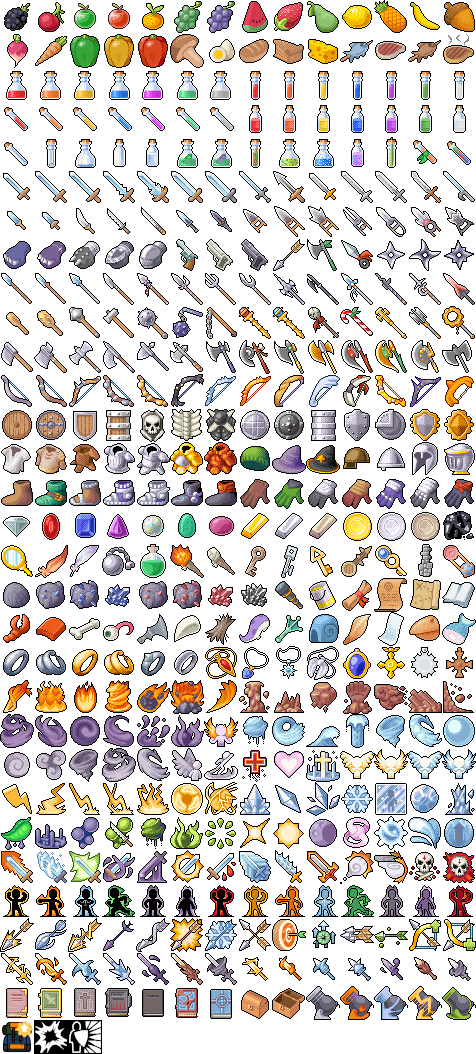
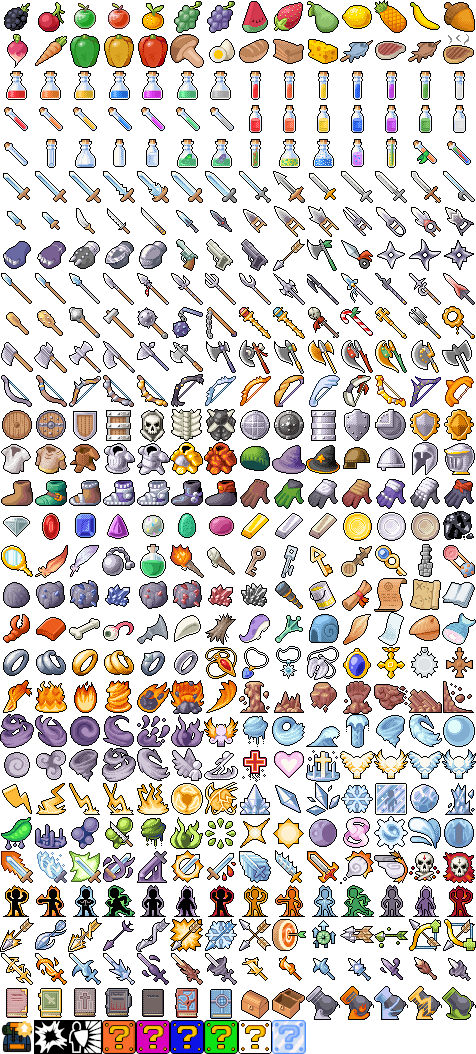
ristrutturazione pagina Wizard e aggiunge nuove risorse grafiche

Changed region(s): [[0.2059, 0.9412, 0.6471, 1.0]]

diff --git a/Gui/ShopTab.cpp b/Gui/ShopTab.cpp
@@ -4,8 +4,6 @@
 
 #include "ShopTab.h"
 
-#include <utility>
-
 void ShopTab::initShopSlots() {
     //init shop slots
     if(!shopSlots.empty()){
@@ -17,13 +15,13 @@ void ShopTab::initShopSlots() {
     float modifierY = 120.f;
     float yMultiplier = 0;
     int count = 0;
-    for(const auto& i : lootGenerator->getConsumablesList()){
+    for(const auto& i : lootGenerator->getShopList()){
         if((count % max_per_row) == 0 && count != 0){
             yMultiplier ++;
         }
         shopSlots.push_back(std::make_shared<gui::ShopSlot>(80.f, 80.f,
                 container.getPosition().x + 35.f + (modifierX * (float)(count % max_per_row)),
-                container.getPosition().y + 80.f + (modifierY * yMultiplier), font, i.second));
+                container.getPosition().y + 80.f + (modifierY * yMultiplier), font, i.second, i.first));
         count++;
     }
 }
@@ -76,36 +74,94 @@ ShopTab::ShopTab(const std::shared_ptr<sf::RenderWindow>& window, sf::Font* font
 ShopTab::~ShopTab() = default;
 
 //functions
-void ShopTab::buyItem(const std::string& item_name, const unsigned price) {
+void ShopTab::buyItem(const std::string& item_name, const std::string& key, item_usage_type item_usage, const unsigned price) {
     if(player->getGold() >= price){
-        std::shared_ptr<Item> it = std::make_shared<Item>(lootGenerator->getConsumablesList().at(item_name));
-        if(it->getName() == "UpgradeInventory"){
-            if(player->getGold() < it->getValue()){
-                gState->getPopUpTextComponent()->addPopUpTextCenter(DEFAULT_RARITY,
-                                                                    "Insufficient Gold", "", "");
-            } else if(!player->getInventory()->isExpandable()){
-                gState->getPopUpTextComponent()->addPopUpTextCenter(DEFAULT_RARITY,
-                        "Your inventory cannot be expanded anymore(Limit:" +
-                        to_string(Inventory::MAX_SPACE), "", ")");
+        if(item_name == "Upgrade Inventory"){
+            if(!player->getInventory()->isExpandable()){
+                gState->getPopUpTextComponent()->addPopUpTextCenter(
+                        DEFAULT_TAG,
+                        "Your inventory cannot be expanded anymore(Limit:" +to_string(Inventory::MAX_SPACE),
+                        "", ")");
             } else{
                 player->minusGold(price);
                 player->getInventory()->expandInventorySpace(5);
                 gState->updateTabsGoldLbl();
                 gState->updateTabsInvSpaceLbl();
-                gState->getPopUpTextComponent()->addPopUpTextCenter(DEFAULT_RARITY,
+                gState->getPopUpTextComponent()->addPopUpTextCenter(
+                        DEFAULT_TAG,
                         to_string(player->getInventory()->getCurrentMaxSpace()-5)+"->", "Inventory capacity +5 (",
-                                                                    to_string(player->getInventory()->getCurrentMaxSpace()));
+                        to_string(player->getInventory()->getCurrentMaxSpace()));
             }
 
-        }else{
-            player->minusGold(price);
-            it->setId(rsHandler->generateId());
-            gState->addItem(it);
-            gState->updateTabsGoldLbl();
+        } else if(!player->getInventory()->isFull() ||
+                (player->getInventory()->hasItemByName(item_name) && item_usage == CONSUMABLE_USAGE)){
+            std::shared_ptr<Item> it = std::make_shared<Item>(lootGenerator->getShopList().at(key));
+            if(it->getName() == "Mystery Box"){
+                std::shared_ptr<Item> new_item = gState->getLootGenerator()->generateTierEquipment(
+                        DEFAULT_RARITY, true);
+                player->minusGold(price);
+                gState->updateTabsGoldLbl();
+                gState->addItem(new_item);
+                gState->updateTabsInvSpaceLbl();
+                gState->getPopUpTextComponent()->addPopUpTextCenter(
+                        DEFAULT_TAG, new_item->getName(), "You got [", "]");
+            } else if(it->getName() == "Mystery Box(Uncommon)"){
+                std::shared_ptr<Item> new_item = gState->getLootGenerator()->generateTierEquipment(
+                        UNCOMMON, false);
+                player->minusGold(price);
+                gState->updateTabsGoldLbl();
+                gState->addItem(new_item);
+                gState->updateTabsInvSpaceLbl();
+                gState->getPopUpTextComponent()->addPopUpTextCenter(
+                        DEFAULT_TAG, new_item->getName(), "You got [", "]");
+            } else if(it->getName() == "Mystery Box(Common)"){
+                std::shared_ptr<Item> new_item = gState->getLootGenerator()->generateTierEquipment(
+                        COMMON, false);
+                player->minusGold(price);
+                gState->updateTabsGoldLbl();
+                gState->addItem(new_item);
+                gState->updateTabsInvSpaceLbl();
+                gState->getPopUpTextComponent()->addPopUpTextCenter(
+                        DEFAULT_TAG, new_item->getName(), "You got [", "]");
+            } else if(it->getName() == "Mystery Box(Rare)"){
+                std::shared_ptr<Item> new_item = gState->getLootGenerator()->generateTierEquipment(
+                        RARE, false);
+                player->minusGold(price);
+                gState->updateTabsGoldLbl();
+                gState->addItem(new_item);
+                gState->updateTabsInvSpaceLbl();
+                gState->getPopUpTextComponent()->addPopUpTextCenter(
+                        DEFAULT_TAG, new_item->getName(), "You got [", "]");
+            } else if(it->getName() == "Mystery Box(Epic)"){
+                std::shared_ptr<Item> new_item = gState->getLootGenerator()->generateTierEquipment(
+                        EPIC, false);
+                player->minusGold(price);
+                gState->updateTabsGoldLbl();
+                gState->addItem(new_item);
+                gState->updateTabsInvSpaceLbl();
+                gState->getPopUpTextComponent()->addPopUpTextCenter(
+                        DEFAULT_TAG, new_item->getName(), "You got [", "]");
+            } else if(it->getName() == "Mystery Box(Legendary)"){
+                std::shared_ptr<Item> new_item = gState->getLootGenerator()->generateTierEquipment(
+                        LEGENDARY, false);
+                player->minusGold(price);
+                gState->updateTabsGoldLbl();
+                gState->addItem(new_item);
+                gState->updateTabsInvSpaceLbl();
+                gState->getPopUpTextComponent()->addPopUpTextCenter(
+                        DEFAULT_TAG, new_item->getName(), "You got [", "]");
+            } else{
+                player->minusGold(price);
+                it->setId(rsHandler->generateId());
+                gState->addItem(it);
+                gState->updateTabsGoldLbl();
+                gState->getPopUpTextComponent()->addPopUpTextCenter(DEFAULT_RARITY,"1 "+item_name,
+                                                                    "You bought","for "+to_string(price)+" gold");
+            }
+        } else{
             gState->getPopUpTextComponent()->addPopUpTextCenter(DEFAULT_RARITY,
-                    "1 "+item_name, "You bought","for "+to_string(price)+" gold");
+                                                                "Your inventory is full!", "", "");
         }
-
     }else{
         gState->getPopUpTextComponent()->addPopUpTextCenter(DEFAULT_RARITY,
                                                             "Insufficient Gold", "", "");
@@ -141,7 +197,7 @@ void ShopTab::update(const sf::Vector2f &mousePos) {
     for(const auto& i : shopSlots){
         i->update(mousePos);
         if(i->isPressed() && gState->getKeyTime()){
-            buyItem(i->getItem().getName(), i->getPrice());
+            buyItem(i->getItem().getName(), i->getKey(), i->getItem().getUsageType(), i->getPrice());
         }
     }
 }

diff --git a/Gui/Gui.cpp b/Gui/Gui.cpp
@@ -856,7 +856,8 @@ int gui::CustomDialog::getTotValue() const {
 //constructors/destructor
 gui::ShopSlot::ShopSlot()= default;
 
-gui::ShopSlot::ShopSlot(float width, float height, float pos_x, float pos_y, sf::Font* font, Item item) : item(item){
+gui::ShopSlot::ShopSlot(float width, float height, float pos_x, float pos_y, sf::Font* font, Item item, const std::string& key)
+                    : item(item), key(key){
     mouseHoverImage = false;
     price = (unsigned int)(item.getValue() * 1.5);
 
@@ -872,7 +873,7 @@ gui::ShopSlot::ShopSlot(float width, float height, float pos_x, float pos_y, sf:
 
     buyBtn = gui::Button(
             shape.getPosition().x,
-            shape.getPosition().y + height,
+            shape.getPosition().y + height + 4.f,
             width, height/4.f,
             font, "Buy", 20.f,
             sf::Color(255, 255, 255, 255),
@@ -895,7 +896,8 @@ gui::ShopSlot::ShopSlot(float width, float height, float pos_x, float pos_y, sf:
     ss << item.getName() << std::endl
        << "Type: " << item.getItemUsageTypeString() << std::endl
        << item.getRarity() << std::endl
-       << "   " << item.getDescription();
+       << "   " << item.getDescription() << std::endl
+       << "Value: " << price;
     itemInfoLbl.setString(textWrap(itemInfoLbl, ss.str(), 250.f));
 
     itemInfoContainer.setSize(sf::Vector2f(itemInfoLbl.getGlobalBounds().width + 10.f,
@@ -920,7 +922,7 @@ void gui::ShopSlot::setSlotTexture(const sf::Texture *slot_texture, float size) 
             item.getIconRectX() * (int)size,
             item.getIconRectY() * (int)size,
             size, size));
-    shape.setOutlineThickness(-3.f);
+    shape.setOutlineThickness(2.f);
     if(item.getRarity() == "Uncommon"){
         shape.setOutlineColor(sf::Color::White);
     } else if(item.getRarity() == "Common"){
@@ -988,6 +990,10 @@ void gui::ShopSlot::render(sf::RenderTarget &target) {
         target.draw(itemInfoContainer);
         target.draw(itemInfoLbl);
     }
+}
+
+std::string gui::ShopSlot::getKey() const {
+    return key;
 }
 
 /*

diff --git a/Resources/ResourcesHandler.cpp b/Resources/ResourcesHandler.cpp
@@ -72,9 +72,8 @@ void ResourcesHandler::loadPlayerStatsTxt(const std::shared_ptr<Stats>& playerSt
         playerStats->addAttribute(AGILITY, appi);
         file >> appi;
         playerStats->setFreePoints(appi);
+        file.close();
     }
-
-    file.close();
 }
 
 void ResourcesHandler::loadPlayerInventoryTxt(const std::shared_ptr<Inventory>& playerInventory) {
@@ -134,6 +133,7 @@ void ResourcesHandler::loadPlayerInventoryTxt(const std::shared_ptr<Inventory>& 
         if(playerInventory->getItemsSize() > 1){
             playerInventory->sortByItemType();
         }
+        file.close();
     }
 }
 
@@ -179,6 +179,7 @@ void ResourcesHandler::loadSpellList(const std::shared_ptr<SpellComponent>& spel
             spellComponent->addSpell(spell);
             spellComponent->addPlayerSpell(spell);
         }
+        file.close();
     }
 }
 
@@ -213,6 +214,7 @@ void ResourcesHandler::loadMaterialsTxt(std::vector<std::unique_ptr<Item>> &mate
             material->setId(generateId());
             material_list.push_back(std::move(material));
         }
+        file.close();
     }
 }
 

diff --git a/Gui/Gui.h b/Gui/Gui.h
@@ -193,12 +193,13 @@ namespace gui{
     public:
         //constructors/destructor
         ShopSlot();
-        ShopSlot(float width, float height, float pos_x, float pos_y, sf::Font* font, Item item);
+        ShopSlot(float width, float height, float pos_x, float pos_y, sf::Font* font, Item item, const std::string& key);
         virtual ~ShopSlot();
 
         //accessors
         Item getItem() const;
         unsigned int getPrice() const;
+        std::string getKey() const;
 
         //modifiers
         void setSlotTexture(const sf::Texture *slot_texture, float size);
@@ -216,6 +217,7 @@ namespace gui{
         sf::Texture texture;
         gui::Button buyBtn;
         Item item{};
+        std::string key;
 
         sf::RectangleShape itemInfoContainer;
         sf::Text itemInfoLbl;

diff --git a/Gui/ShopTab.h b/Gui/ShopTab.h
@@ -20,7 +20,8 @@ public:
 
     const vector<std::shared_ptr<gui::ShopSlot>> &getShopSlots() const;
     //functions
-    void buyItem(const std::string& item_name, const unsigned price);
+    void buyItem(const std::string& item_name, const std::string& key,
+                 item_usage_type item_usage, const unsigned price);
     bool closeTabByClicking(const sf::Vector2f& mousePos);
     void updateGoldLbl();
     void updateInvSpaceLbl();
